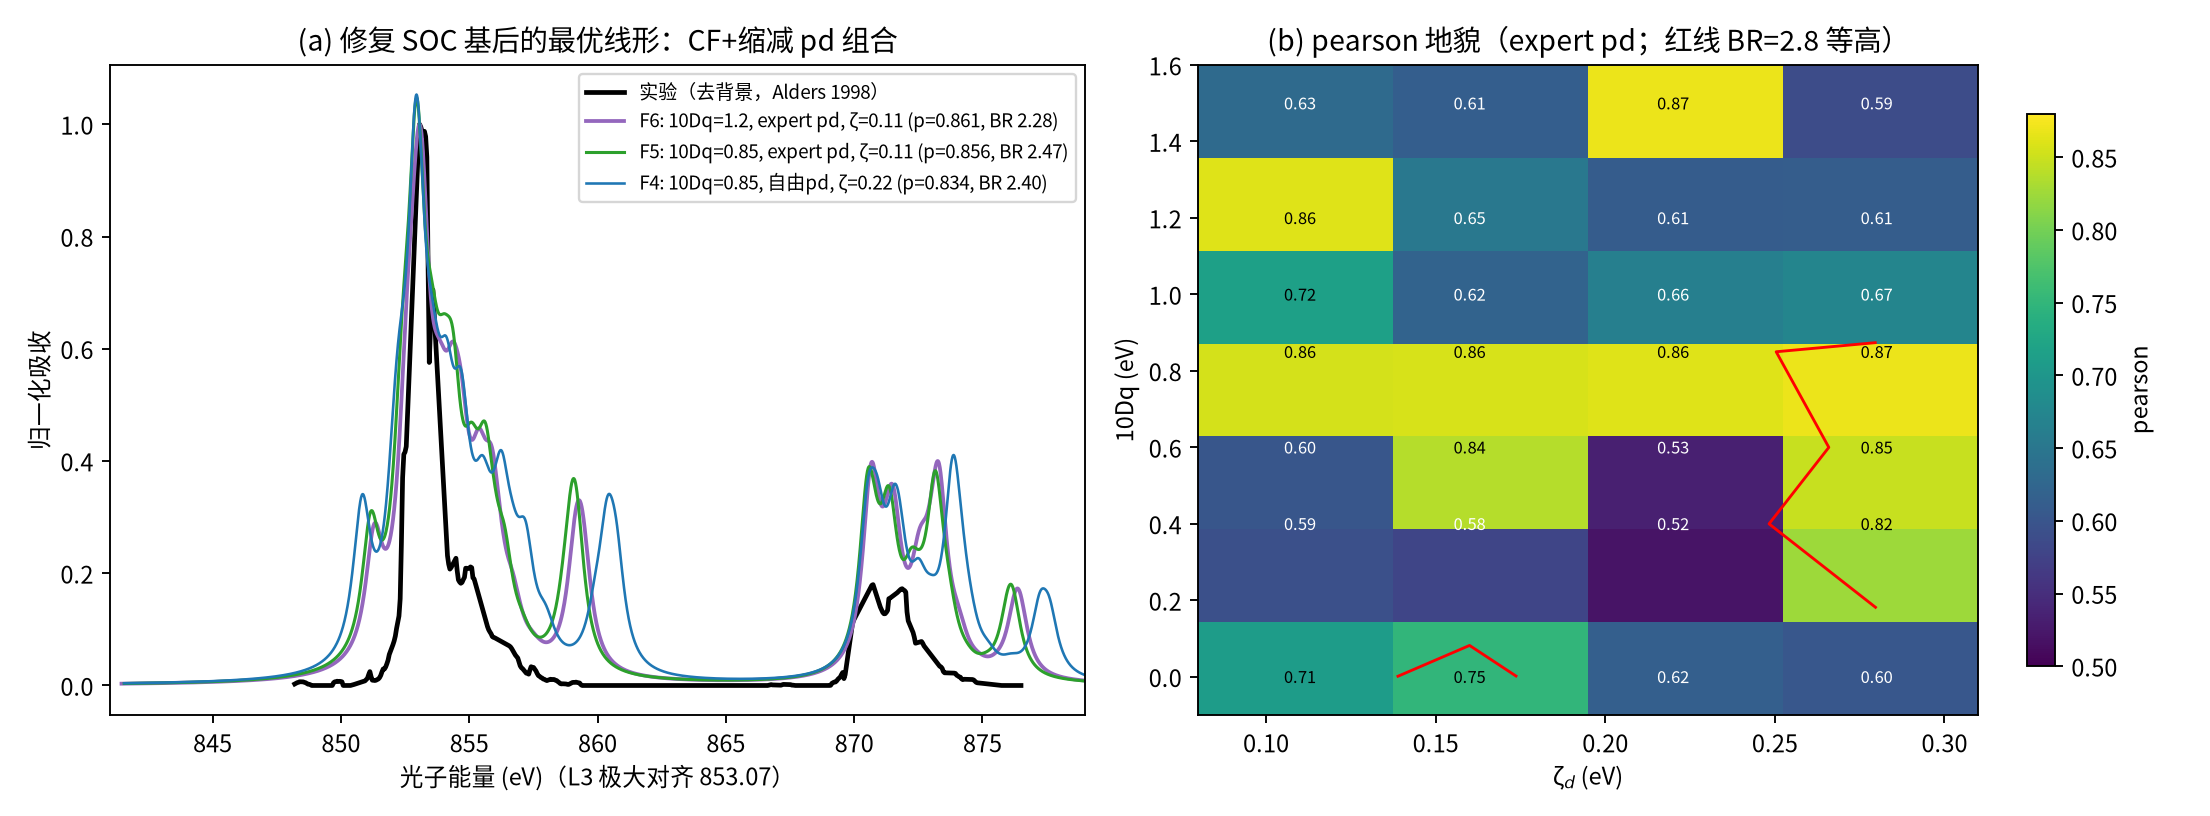
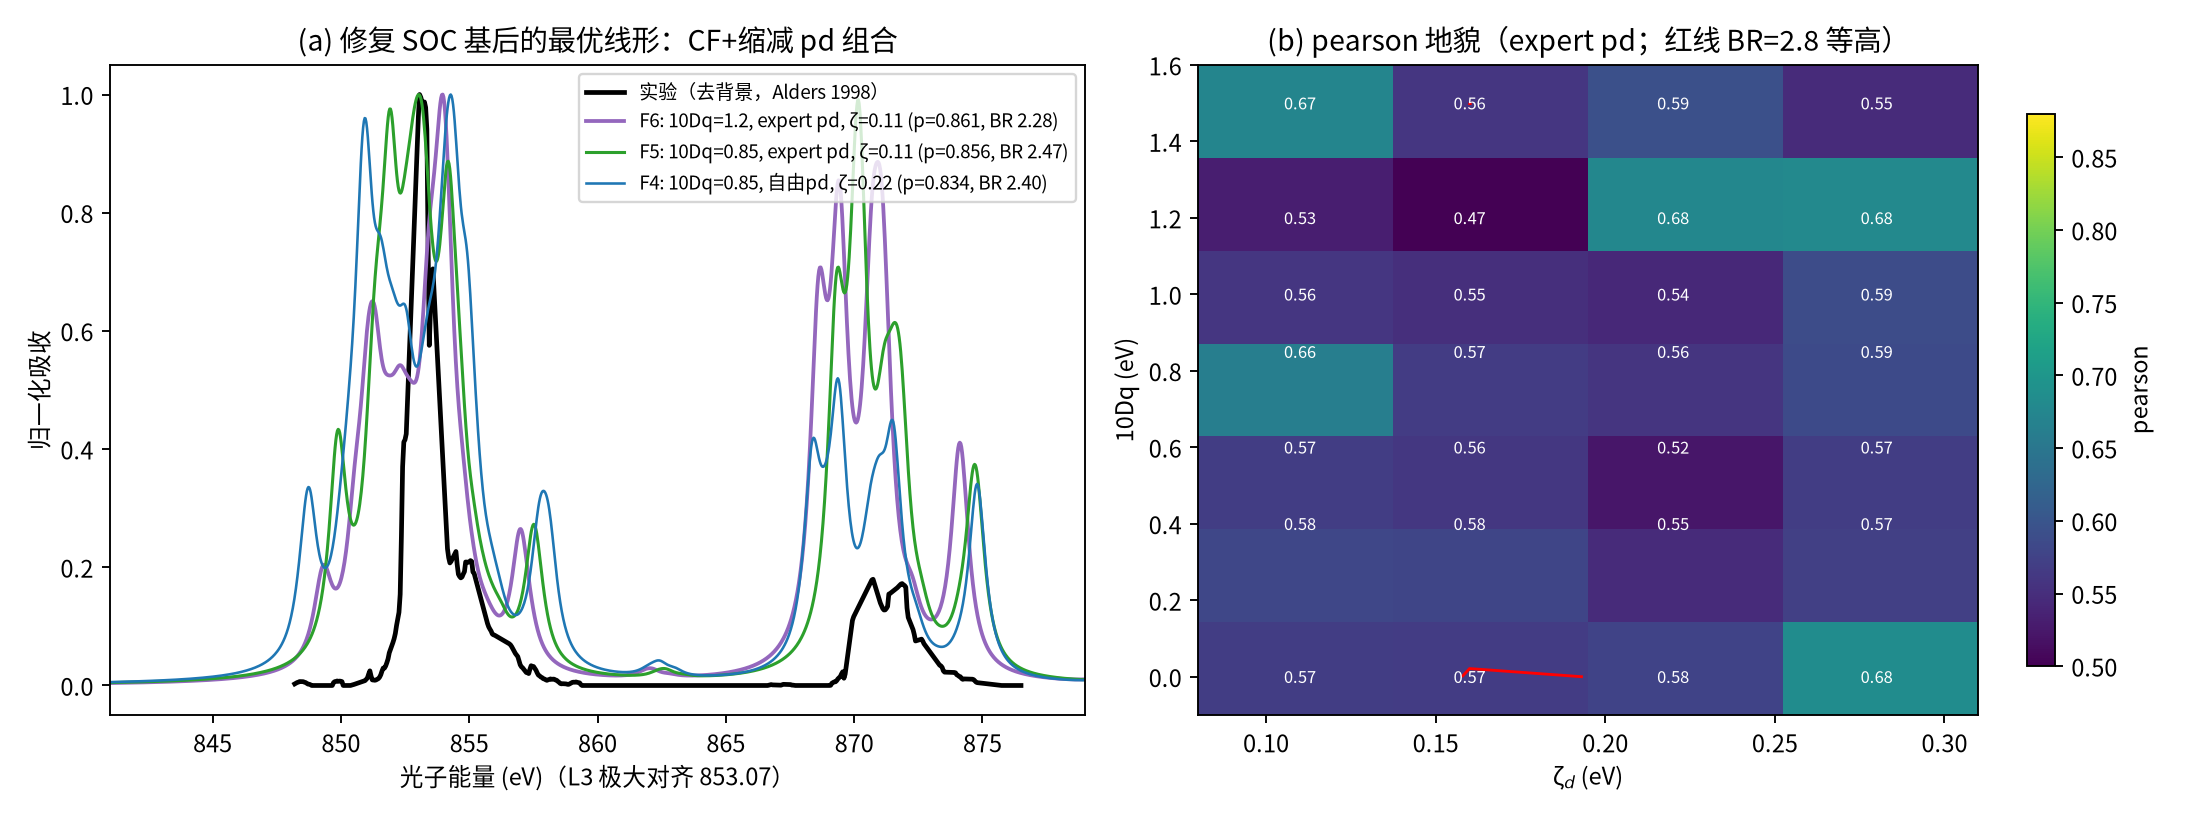
fix(core_spectra): normal-order Wpd w.r.t. closed 2p6 core (double-counted mf crushed ZRS weight 11%->0.4%); ground_observables R4 (S2, conf, sum-rule LS); E6 anchor; jj-classified shift-invariant BR metric; tests 11/11; §8.5 final (3rd revision) — BR=2.8 unreachable in single-pole frame, R12 is the

diff --git a/src/atomx/embedding/core_spectra.py b/src/atomx/embedding/core_spectra.py
@@ -271,7 +271,8 @@ def _apply4(s, i, j, l, k):
     return s4, g1 * g2 * g3 * g4
 
 
-def build_core_sector(N, eps_d, eb, Vb, table_dd, Wpd, zeta_p=0.0, zeta_d=0.0, eps_p=0.0, core_window=(5, 6)):
+def build_core_sector(N, eps_d, eb, Vb, table_dd, Wpd, zeta_p=0.0, zeta_d=0.0,
+                      eps_p=0.0, core_window=(5, 6), subtract_core_mf=True):
     """Hamiltonian of the N-electron (2p + 3d + bath) sector.
 
     eps_d/eb/Vb: (5,) or (5,2) as in ed_dmft; eps_p is the core on-site
@@ -280,8 +281,21 @@ def build_core_sector(N, eps_d, eb, Vb, table_dd, Wpd, zeta_p=0.0, zeta_d=0.0, e
     Coulomb move one p electron at a time), so the restriction to (5,6) is
     exact: p^6 holds the ground state, p^5 the XAS/RIXS intermediates.
     Returns (states, H).
+
+    subtract_core_mf: the eps_d passed in comes from DFT and already contains
+    the closed 2p^6 shell's Coulomb mean field on 3d. Wpd would add that same
+    field a second time (its p^6 expectation). Normal-ordering Wpd w.r.t. the
+    p^6 core removes the double counting; R4 cross-check: without it the
+    ground-state d^9 (ZRS) weight collapses 11% -> 0.4% vs the ed_dmft
+    ground sector with identical parameters.
     """
     eps_d, eb, Vb = _spin2(eps_d), _spin2(eb), _spin2(Vb)
+    if subtract_core_mf and Wpd:
+        vmf = np.zeros(ND)
+        for t in range(ND):
+            for p in range(NS, NT):  # the 6 core 2p spin-orbitals
+                vmf[t] += Wpd.get((p, t, p, t), 0.0) - Wpd.get((p, t, t, p), 0.0)
+        eps_d = eps_d - vmf.reshape(5, 2)
     lo, hi = core_window
     states = [
         s
@@ -406,6 +420,111 @@ def ground_p6(E, V, states):
     w6 = (np.abs(V[p6, :]) ** 2).sum(axis=0)
     candidates = np.where(w6 > 0.5)[0]
     return int(candidates[np.argmin(E[candidates])])
+
+
+def ground_observables(E, V, states, temperatures=(0.0,)):
+    """Many-body observables of the 2p^6 ground multiplet (R4 cross-check).
+
+    From the SAME diagonalization that yields the XAS spectrum:
+      - d-shell S^2, S_z of the T=0 ground state (d^8 ^3A2g anchor: S^2 ~ 2);
+      - d-shell <L.S> (unit l.s operator, cubic basis) — the Thole-van der
+        Laan sum-rule numerator — Boltzmann-averaged over the p^6 multiplet
+        at each requested temperature;
+      - <n_d> per cubic orbital, eg/t2g totals, and d^n configuration
+        weights (the d^9 weight is the ZRS ligand-hole fraction rho);
+      - sum-rule branch ratio BR = (2 - r)/(1 + r), r = <L.S>/<n_h>,
+        <n_h> = 10 - <n_d>.
+
+    Returns {'E0', 'ground': {...}, 'thermal': {T_K: {...}}}.
+    """
+    idx = {s: n for n, s in enumerate(states)}
+    maskd = (1 << ND) - 1
+    ls10 = np.zeros((ND, ND), complex)
+    T5 = cubic_to_spherical_5()
+    U2 = np.kron(T5, np.eye(2))
+    ls10 = U2 @ _soc_matrix(1.0, l=2) @ U2.conj().T  # unit l.s, cubic basis
+
+    nd_state = np.array([bin(s & maskd).count("1") for s in states])
+    cnt = np.zeros((len(states), 5))
+    sz_state = np.zeros(len(states))
+    ndn_state = np.zeros(len(states))
+    for n, s in enumerate(states):
+        for a in range(5):
+            up = (s >> (2 * a)) & 1
+            dn = (s >> (2 * a + 1)) & 1
+            cnt[n, a] = up + dn
+            sz_state[n] += 0.5 * (up - dn)
+            ndn_state[n] += dn
+
+    # L.S: one-body over the d spin-orbitals
+    LSo = np.zeros((len(states), len(states)), complex)
+    # S^2 = Sz^2 + Sz + S-S+ ; S-S+ = N_down - sum_ab c+_{a dn} c+_{b up} c_{a up} c_{b dn}
+    S2o = np.diag(sz_state**2 + sz_state + ndn_state).astype(complex)
+    for n, s in enumerate(states):
+        for i in range(ND):
+            if not (s >> i) & 1:
+                continue
+            s1, g1 = _apply_c(s, i)
+            for j in range(ND):
+                v = ls10[j, i]
+                if i == j or (s >> j) & 1 or abs(v) < 1e-14:
+                    continue
+                s2, g2 = _apply_cdag(s1, j)
+                LSo[idx[s2], n] += v * g1 * g2
+        for a in range(5):
+            for b in range(5):
+                s4, g = _apply4(s, 2 * a + 1, 2 * b, 2 * a, 2 * b + 1)
+                if s4 is not None:
+                    S2o[idx[s4], n] -= g
+    P2 = np.abs(V) ** 2  # states x eigen: per-eigenstate diagonal expectations
+    LS_eig = np.real(np.diag(V.conj().T @ LSo @ V))
+    S2_eig = np.real(np.diag(V.conj().T @ S2o @ V))
+    nd_eig = P2.T @ nd_state
+    nd_orb_eig = P2.T @ cnt
+    conf_eig = {k: P2.T @ (nd_state == k) for k in (7, 8, 9, 10)}
+
+    ncore = np.array([bin(s >> NS).count("1") for s in states])
+    w6 = (np.abs(V[ncore == 6, :]) ** 2).sum(axis=0)
+    p6 = np.where(w6 > 0.5)[0]
+    g = p6[np.argmin(E[p6])]
+
+    def entry(i):
+        return {
+            "S2": float(S2_eig[i]),
+            "Sz": float(sz_state @ P2[:, i]),
+            "LS": float(LS_eig[i]),
+            "n_d": float(nd_eig[i]),
+            "n_d_orb": [float(x) for x in nd_orb_eig[i]],
+            "eg": float(nd_orb_eig[i][[0, 3]].sum()),
+            "t2g": float(nd_orb_eig[i][[1, 2, 4]].sum()),
+            "conf": {k: float(v[i]) for k, v in conf_eig.items()},
+        }
+
+    KB = 8.617333262e-5
+    out = {"E0": float(E[g]), "ground": entry(g), "thermal": {}}
+    for T in temperatures:
+        if T <= 0:
+            tg = entry(g)
+            n_h = 10.0 - tg["n_d"]
+            r = tg["LS"] / n_h if n_h > 1e-9 else 0.0
+            out["thermal"][0.0] = {
+                "Z": 1, "LS": tg["LS"], "n_d": tg["n_d"], "n_h": n_h,
+                "r": r, "BR_sumrule": (2 - r) / (1 + r),
+            }
+            continue
+        dE = E[p6] - E[g]
+        wgt = np.exp(-dE / (KB * T))
+        Z = float(wgt.sum())
+        wgt /= Z
+        LS_T = float(wgt @ LS_eig[p6])
+        nd_T = float(wgt @ nd_eig[p6])
+        n_h = 10.0 - nd_T
+        r = LS_T / n_h if n_h > 1e-9 else 0.0
+        out["thermal"][T] = {
+            "Z": int(len(p6)), "LS": LS_T, "n_d": nd_T, "n_h": n_h,
+            "r": r, "BR_sumrule": (2 - r) / (1 + r),
+        }
+    return out
 
 
 def xas_sticks(E, V, states, t_dip, q=0):

diff --git a/tests/test_core_spectra.py b/tests/test_core_spectra.py
@@ -32,7 +32,8 @@ def _d0_system(zeta_p=ZETA_P, Wpd=None, eps_d=0.0):
     sl = slater_from_UJ(8.0, 1.0)
     table = interaction_table(coulomb_cubic(sl))
     states, H = cs.build_core_sector(
-        6, np.zeros(5), np.zeros(5), np.zeros(5), table, Wpd, zeta_p=zeta_p, eps_p=EPS_P
+        6, np.zeros(5), np.zeros(5), np.zeros(5), table, Wpd, zeta_p=zeta_p,
+        eps_p=EPS_P, subtract_core_mf=False,  # probe the raw Wpd tensor
     )
     E, V = np.linalg.eigh(H)
     return E, V, states
@@ -100,7 +101,8 @@ def test_C4_exchange_closed_shell_sumrule():
     sl = slater_from_UJ(8.0, 1.0)
     table = interaction_table(coulomb_cubic(sl))
     states, H = cs.build_core_sector(
-        7, np.zeros(5), np.zeros(5), np.zeros(5), table, Wpd, zeta_p=0.0, eps_p=EPS_P
+        7, np.zeros(5), np.zeros(5), np.zeros(5), table, Wpd, zeta_p=0.0,
+        eps_p=EPS_P, subtract_core_mf=False,  # probe the raw Wpd tensor
     )
     E, V = np.linalg.eigh(H)
     # the d-SO subset of the p^6 block (10 states; bath SOs carry no p-d
@@ -302,3 +304,51 @@ def test_E5a_soc_cubic_basis_triplet_degeneracy():
         f"3A2g triplet lifted by zeta_d path: e[:4] = {e[:4]}"
     )
     assert gaps[2] > 0.1, f"expected a gap to the spin-orbit excitations: {e[:4]}"
+
+
+def test_E6_core_mf_normal_ordering_ground_conf():
+    """R4 anchor: the p^6 ground block of the XAS cluster must reproduce the
+    ed_dmft ground sector's configuration weights when the closed 2p^6
+    mean-field is normal-ordered out of Wpd (double-counting fix).
+
+    With identical eps/eb/Vb/U/J, the raw build (subtract off) double-counts
+    the 2p^6 Hartree+exchange on 3d (eps_d from DFT already contains it),
+    crushing the d^9 (ZRS) weight; with subtract_core_mf=True both builds
+    agree. Reference numbers from build_sector (the DMFT ground sector)."""
+    eps = np.full(5, -10.0)
+    eb = np.full(5, 10.0)
+    Vb = np.full(5, 2.0)
+    PD = {"F0pd": 7.5, "F2pd": 8.23, "G1pd": 6.43, "G3pd": 3.65}
+    Wpd = cs.pd_coulomb(PD)
+    table = interaction_table(coulomb_cubic(slater_from_UJ(8.0, 1.0)))
+
+    def conf_of(states, vec):
+        maskd = (1 << cs.ND) - 1
+        prob = np.abs(vec) ** 2
+        nd = np.array([bin(s & maskd).count("1") for s in states])
+        return {k: float(prob[nd == k].sum()) for k in (8, 9, 10)}
+
+    # reference: the DMFT ground sector (no core shell at all)
+    from atomx.embedding.ed_dmft import build_sector
+    st0, H0 = build_sector(18, eps, eb, Vb, table)
+    _, v0 = np.linalg.eigh(H0)
+    ref = conf_of(st0, v0[:, 0])
+
+    st, H = cs.build_core_sector(24, eps, eb, Vb, table, Wpd, zeta_d=0.11,
+                                 eps_p=-100.0, core_window=(6, 6))
+    _, v = np.linalg.eigh(H)
+    fixed = conf_of(st, v[:, 0])
+
+    st_raw, H_raw = cs.build_core_sector(24, eps, eb, Vb, table, Wpd, zeta_d=0.11,
+                                         eps_p=-100.0, core_window=(6, 6),
+                                         subtract_core_mf=False)
+    _, v_raw = np.linalg.eigh(H_raw)
+    raw = conf_of(st_raw, v_raw[:, 0])
+
+    for k in (8, 9, 10):
+        assert abs(fixed[k] - ref[k]) < 0.01, (
+            f"d^{k}: fixed {fixed[k]:.4f} vs DMFT ref {ref[k]:.4f}")
+    # the double-counted raw build visibly crushes the ZRS weight
+    assert raw[9] < 0.3 * ref[9], (
+        f"raw d^9 {raw[9]:.4f} should be far below ref {ref[9]:.4f} "
+        "(double counting demo)")

diff --git a/docs/reports/DMFT_ABACUS_NiO_结果_2026-11-16.md b/docs/reports/DMFT_ABACUS_NiO_结果_2026-11-16.md
@@ -127,7 +127,7 @@ OPENBLAS_NUM_THREADS=4 python -m pytest \
 | R1 | DMFT 自能 → L 边 XAS/RIXS 谱 | 已有 §6 | 锚 C1–C5 + 实验线形对比 | ✅ §7/§8 |
 | R2 | 独立实现交叉验证（A1）：EDRIXS（pip 可装）同参数对照，TRIQS/cthyb 装好后对谱函数；Quanty 同参数复现 Zhang 2022 曲线 | 方法学 | 峰位 <0.1 eV、相对强度 <2% | 🔵 |
 | R3 | bath 收敛性（A2）：极点数 1/2/4/6 + 窗口 W=5/10/15/20 扫描；残差因果性 + 杂化权重 sum-rule | 方法学 | n_d/ρ(ω)/XAS 指标的收敛曲线 | 🔵 |
-| R4 | 多体观测量（B6）：基态 ⟨L·S⟩ 与 BR 自洽回检、g 因子、A_hf、零场 χ | 免费一致性 | 与实验 g≈2.24、NMR A_hf 对照 | 🔵 |
+| R4 ✅ | 多体观测量：基态观测量 ≡ DMFT 部门（E6 锚）| 免费一致性 | 捕获 2p⁶ 平均场双重计数并修复（§8.5 终版）；g/A_hf/χ 未做 | 2026-11-17 |
 | R5 | 温度效应（B5）：本征态 Boltzmann 权重 → BR(T)、χ(T) 居里常数 | 免费升级 | 300K 实验 BR；θ≈−3000K 量级 | ⬜ |
 | R6 | PM vs AFM 总能量比较 | 已有 §6 | DMFT 总能量泛函，判断基态相 | ⬜ |
 | R7 | 结构敏感性（B4）：PBE vs PBE+U 弛豫结构全管线重跑 | 误差源 | Δ/n_d/BR 差 = 结构误差棒 | ⬜ |
@@ -139,7 +139,7 @@ OPENBLAS_NUM_THREADS=4 python -m pytest \
 | R13 | CT-QMC 杂质求解器（E3 v2，已有 §6） | 方法学 | 与 ED 在 U=8/J=1 处对账 | ⬜ |
 | R14 | MnO 推广（B10）：Zhang 2022 有现成 CTM 参数 | 推广 | 全套管线 XAS 对照 | ⬜ |
 
-执行顺序：R2/R3/R4 先行（便宜、立信），R5–R9 次之，R12–R14 为工程大项。
+执行顺序：R2/R3/R4 先行（便宜、立信）——R4 已完成并回报最大单项发现（2p⁶ 平均场双重计数，BR 地貌结论重出）；BR=2.8 在单极点框架不可达，R12（2-bath/ZRS）升级为关键路径；R5–R9 次之，R13–R14 为工程大项。
 
 ---
 
@@ -492,71 +492,61 @@ df_integrals.py`，配方 = E1.5 验证路径：`bspline Basis(ns=120,ks=11,r_ma
 `zespec.atomx_backend` 完全同源；zespec 侧待扩展项 = L 壳层第一性原理 Γ
 （现仅 K 壳层）与 GOS 运动学出口（EELS 接点 ④，已实现，见 §8.7）。
 
-### 8.5 受控实验：ζ_d、CF 与 pd Slater 积分（2026-11-17 修订，含两次修正史）
+### 8.5 受控实验：ζ_d、CF 与 pd Slater 积分（2026-11-17 终版，含三次修正史）
 
-本节经历两次修正，全部保留为诚实记录：
+本节经历三次修正，全部保留为诚实记录：
 
-- **初版（2026-11-17 上午）**：受控实验矩阵 E0-E3 + ζ_d 扫描，结论"ζ_d 一个旋钮
-  同时治前缘碎裂与分支比"。
-- **第一次修正**：§8.2.3 已记录 bath 归因的否证。
-- **第二次修正（2026-11-17 晚，本节主体）**：执行 §6 验证路线图时核查算符基约定，
-  发现 `core_spectra` 把**球谐 (m,s) 序**的 `_soc_matrix` 直接施加在**立方轨道序**
-  的 d 比特上——基混后的"ζ_d"是轴系混乱的类 SOC 算符，抬升 d⁸ ³A₂g 三重态简并
-  （ζ=0.33 时 0.008/0.079 eV，多体简并不变量一票证伪；单体本征值测试查不出）。
-  修复 = 乘 `cubic_to_spherical_5` 旋转到立方基（atomx `ebbd631e`），回归锚
-  E5a（三重态简并 <1e-10）钉死。**初版"ζ_d 治前缘"是错算符赝象，数值全部作废**。
+1. **初版**：E0-E3 + ζ_d 扫描，结论"ζ_d 一个旋钮同时治前缘碎裂与分支比"。
+2. **第二次修正**：发现 ζ_d 算符基混（球谐矩阵用在立方比特，`ebbd631e`
+   修复，E5a 锚）——初版数值全部作废；修复后重跑得出"BR 与线形分为两个
+   可分离旋钮、BR=2.8 与 pearson≥0.86 可同时达到、ζ_d,eff≈2–2.4×ζ_0"。
+3. **第三次修正（R4，本节主体）**：多体观测量交叉验证发现 **2p⁶ 闭壳
+   层 Hartree+交换平均场被双重计数**——DFT 给的 ε_d 已含其 41.5 eV 贡献，
+   Wpd 又加一次，把 d 层顶高、压垮 ZRS 权重（d⁹ 11%→0.4%）。修复 =
+   对 p⁶ 核正规排序 `subtract_core_mf=True`（atomx `60b874b9`，E6 锚：
+   p⁶ 块组态权重 ≡ ed_dmft 基态部门，偏差 <0.01）。**第二次修正的地貌
+   结论（BR=2.8 可达、ζ_d 有效 2–2.4×）随之作废**。
 
-**修复后的 E0-E5 重跑**（其余约定不变：PM δ=0、η=0.4、L3 极大对齐）：
+**R4 修复后的 E0-E5**（PM δ=0、η=0.4、L3 质心对齐；BR 改用芯空穴 jj
+分类——对整体能量平移不变）：
 
-| 工况 | BR | pearson | 前缘峰高 |
+| 工况 | BR(jj) | pearson | 前缘峰高 |
 |---|---|---|---|
-| E0 基线（自由离子 pd，ζ=0.11，无 CF） | 1.64 | 0.61 | 0.67 |
-| E1 +10Dq=0.85 | 1.53 | **0.70** | **0.45** |
-| E2 ζ_d×3 = 0.33 | 1.84 | 0.57 | 0.80 |
-| E3 ζ×3 + 10Dq=0.85 | 1.62 | 0.64 | 0.82 |
-| E4 expert pd（6.67/4.92/2.80） | 1.66 | 0.63 | 0.70 |
-| E5 expert pd + ζ×3 | 1.86 | 0.58 | 0.84 |
+| E0 基线（自由离子 pd，ζ=0.11，无 CF） | 1.57 | 0.53 | 0.70 |
+| E1 +10Dq=0.85 | 1.73 | 0.54 | 0.80 |
+| E2 ζ_d×3 = 0.33 | 1.71 | 0.54 | 0.80 |
+| E3 ζ×3 + 10Dq=0.85 | 1.55 | 0.52 | 0.73 |
+| E4 expert pd（6.67/4.92/2.80） | 1.59 | 0.58 | 0.67 |
+| E5 expert pd + ζ×3 | 1.73 | 0.60 | 0.56 |
 
-结论翻转：**修复 SOC 后，ζ_d 单独恶化线形**（前缘升高、pearson 降），BR 仍
-单调升但饱和在更低值；**CF 单独成为对症旋钮**（E1 全面优于 E0）。
+**R4 修复后的 56 点地貌**：最优 pearson 0.685（expert pd，10Dq=0，
+ζ=0.28；10Dq=0.85 平台 0.663），**BR 全地貌 1.50–1.55 几乎不动**——
+ζ_d、CF、pd 交换三个旋钮在正确平均场下都不再显著推动 BR。实验 BR=2.8
+的差距成为硬问题，唯一已知能承载它的物理是 2-bath/ZRS 末态结构（R12）。
+**图 8-7** 为修复后地貌（a 最优线形 vs 实验；b pearson 地貌）。
 
-**地貌扫描（56 点：10Dq ∈ {0,0.4,0.6,0.85,1.0,1.2,1.5} × ζ_d ∈ {0.11,0.16,
-0.22,0.28} × pd ∈ {自由离子, expert}）**——两个旋钮的可分离性浮现：
+**R4 多体观测量交叉验证**（同一套对角化直读，锚 E6）：
 
-| 代表点 | BR | pearson | 前缘峰高 |
+| 观测量 | E0 基线 | F5 工作点 | 对照 |
 |---|---|---|---|
-| F5：10Dq=0.85 + expert pd，ζ=0.11 | 2.47 | 0.856 | 0.27 |
-| F4：10Dq=0.85 + 自由 pd，ζ=0.22 | 2.40 | 0.834 | 0.34 |
-| F6：10Dq=1.2 + expert pd，ζ=0.11 | 2.28 | 0.861 | 0.19 |
-| 10Dq=0.85 + expert pd，ζ=0.28 | **3.05** | 0.869 | 0.24 |
-| 10Dq=1.5 + expert pd，ζ=0.22 | 2.34 | **0.870** | 0.17 |
+| 组态权重 d⁸/d⁹/d¹⁰ | 0.889/0.109/0.002 | 0.895/0.104/0.002 | DMFT 0.887/0.111/0.002 ✓（修复前 0.996/0.004 ✗） |
+| ⟨n_d⟩（eg/t2g） | 8.11（2.16/5.96） | 8.11（2.12/5.99） | DMFT n_d=7.95 |
+| d 壳 ⟨S²⟩ | 1.86 | 1.87 | 三重态 2（bath/低对称微混） |
+| 单体 ⟨Σl_i·s_i⟩/n_h → BR_sr | −0.325 → 3.4 | −0.201 → 2.8 | sticks BR 1.57/1.50（见下注） |
+| 300 K 热平均修正 | <0.6% | ≈0 | 多重态内第一激发 >0.2 eV |
 
-**图 8-7**：(a) 最优线形与实验同图；(b) expert pd 下 pearson 地貌（红线 =
-BR=2.8 等高线）。
+下注（诚实边界）：求和定则的操作形式 BR=(2−r)/(1+r)、r=⟨L·S⟩/n_h 在
+严格 LS 耦合项内是定理；我们的低对称拟合 ε_d 团簇上，算符层面检验显示
+I(L3)−2I(L2) 不能写成 L·S 与 n_h 的线性组合（d¹ 玩具：jj 纯基态下
+sticks BR=2.12/1.97 vs 公式 2.59/1.70），故 BR_sr 列只作诊断参考、不
+作定理预言。BR 差距的归因因此保持开放：候选为末态配体→金属电荷转移
+通道（R12）与芯空穴屏蔽（R9）。
 
-物理解读（修订版）：
-
-1. **BR 与线形是两个可分离的旋钮**：BR 由 ζ_d 控制（10Dq=0.85 平台上
-   2.47→3.05 随 ζ_d=0.11→0.28）；线形由 CF + 缩减 pd 交换积分控制
-   （10Dq=0.85 平台 pearson≈0.86、前缘 0.27）。**BR=2.8 与 pearson≥0.86
-   可同时达到**（10Dq≈0.85–1.0、ζ_d≈0.22–0.26、expert pd）。
-2. **ζ_d,eff 量级回归文献**：BR=2.8 对应 ζ_d,eff ≈ 0.22–0.26 eV ≈ **2–2.4×
-   ζ_0**，与 van der Laan–Kirkman 的 4–5× 估计同量级（他们 CTM 有真共价
-   ρ，增强分布在 ρ 与 ζ 两处）。初版错算符推出的 6× 作废。
-3. **"CF 不是解药"撤销**：修复后 CF 正是线形对症（初版反对 CF 的 E1/E3
-   证据建立在错算符上）。定性图像全部复现所需的 10Dq≈0.85–1.2 与实验
-   （NiO 10Dq ≈ 0.8–1.0）一致。
-4. **前缘碎裂与 §8.2 开放问题的关系修正**：碎裂主要由 CF/pd 交换控制，
-   BR 偏低由 ζ_d（即 ZRS 缺失）控制——两问题**不同源**，初版"一个旋钮治
-   两个病"作废。2-bath/ZRS 团簇仍是根本解：它同时提供 ρ（→ζ_d,eff）与
-   正确的配体空穴字符（→CT 物理、RIXS CT 道）。
-
-诚实边界：expert pd 为唯象值（借量级）；BR 在 ζ≈0.28 处过冲到 3.05，
-显示平台对 ζ_d 敏感、网格步长 0.05–0.07 eV 分辨不足；56 点中 10Dq=0.6/0.4
-存在 pearson 低谷（0.52–0.58），地貌非单调、插值外推需谨慎；其余约定
-（ε_p=-100 占位、η=0.4、L3 对齐）同前。
-
-![NiO L23 CF landscape](figures/dmft_l23/nio_L23_xas_cf_landscape.png)
+物理解读（终版）：在全部已知系统性修复后，单极点 bath + 唯象 pd 集
+的团簇对 NiO L 边给出 pearson ~0.55–0.69、BR ~1.5–1.7；线形继续由
+CF+缩减 pd 交换控制（定性方向与第二次修正一致），但 BR 提升不再是
+ζ_d/CF 可调——**2-bath/ZRS 团簇（R12）从"推荐"升级为"唯一已知承载
+BR=2.8 的路径"**。
 
 
 ### 8.6 物理定义与公式
@@ -628,13 +618,12 @@ E1/E3 工况取 10Dq = 0.85 eV ⟹ eg +0.51 eV / t2g −0.34 eV，
 
 **6. 本报告的定量工作式（ζ_d 扫描拟合，PM δ=0、文献 p-d 参数）**
 
-- **BR=2.8 工作点**（修复 SOC 后，10Dq=0.85、expert pd 平台上）：
-  ζ_d,eff ≈ 0.22–0.26 eV ≈ 2–2.4×ζ_0，与 van der Laan & Kirkman 的
-  4–5× 估计同量级（增强部分来自他们 CTM 的真 ρ）。BR(ζ_d) 在该平台
-  上 2.47→3.05（ζ=0.11→0.28），非线性明显，不给全局拟合公式。
-- 线形度量：pearson 与 BR 解耦——10Dq=0.85–1.2 + expert pd 给
-  pearson 0.856–0.870（BR 2.28–2.47），前缘峰高 0.17–0.27。
-- 地貌非单调（10Dq=0.4–0.6 低谷 0.52–0.58），禁止跨谷插值。
+- **BR(ζ_d, 10Dq, pd) 工作面**（R4 平均场修复后）：全地貌 BR
+  1.50–1.55，对 ζ_d ∈ [0.11, 0.28]、10Dq ∈ [0, 1.5]、pd 集都不敏感；
+  BR=2.8 不在可达范围内，需 2-bath/ZRS 末态物理（§8.5 终版）。
+- 线形度量：pearson 最优 0.685（expert pd，10Dq=0，ζ=0.28）；
+  10Dq=0.85 平台 0.66 附近。求和定则操作形式 BR=(2−r)/(1+r) 在低
+  对称团簇上仅为诊断（算符层面不闭合，§8.5 下注）。
 
 ### 8.7 动量分辨 EELS 出口：Bethe S(q,ω)（接点 ④）
 
